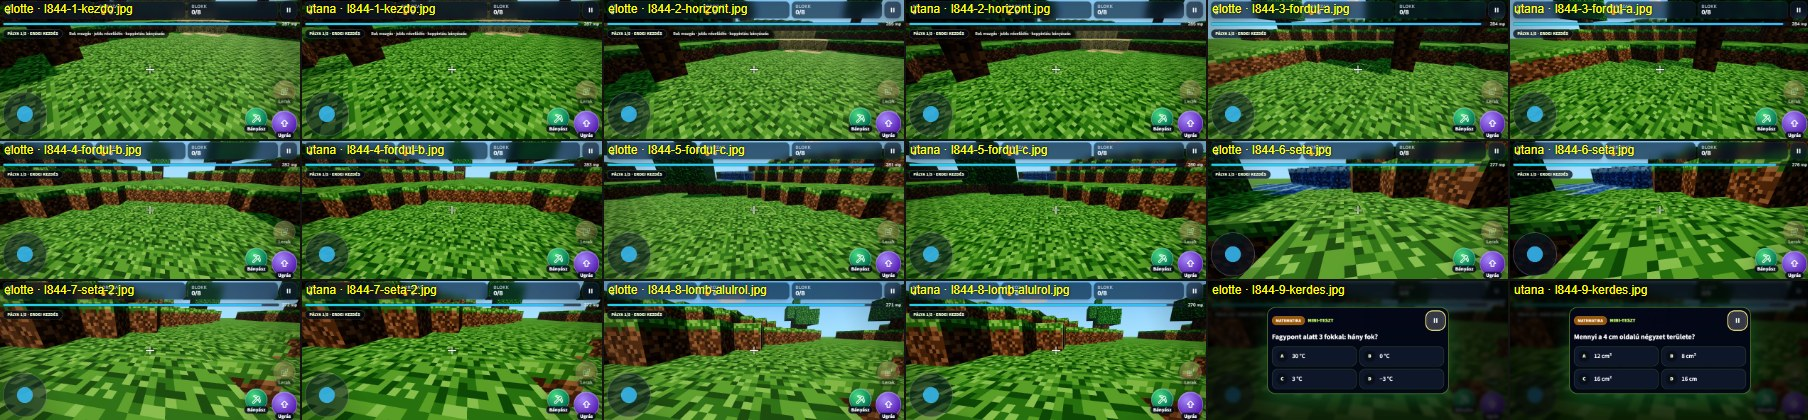
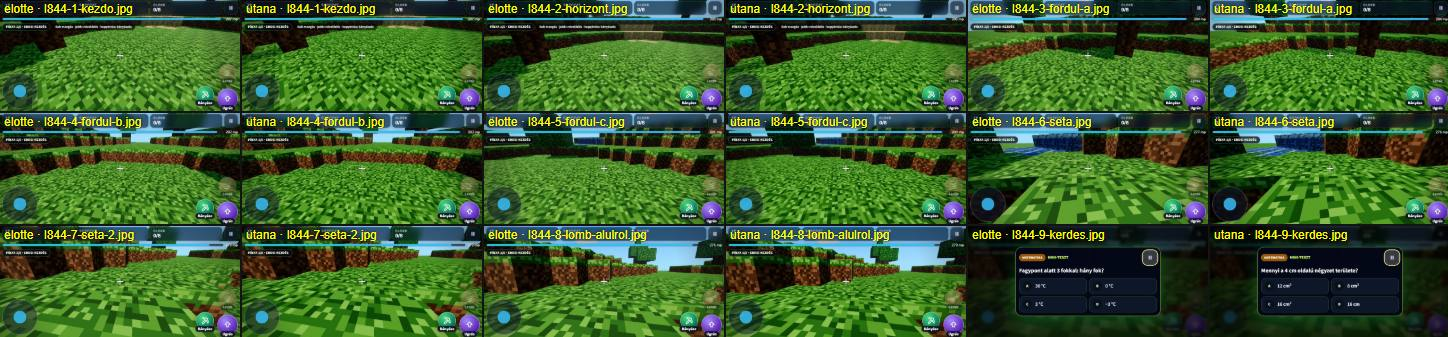
fix(jatekok): Kockavadász review F1–F7 – képpont-plafon csak érintős telefonon, CI-biztos panel-teszt, átló-doksi, akna-kép, karcsúbb képek

diff --git a/source/tests/pixel-budget.test.ts b/source/tests/pixel-budget.test.ts
@@ -1,7 +1,7 @@
 import assert from "node:assert/strict";
 import { describe, it } from "node:test";
 
-import { LIGHT_GRAPHICS_MAX_PIXELS, isLightGraphicsFrom, pixelRatioForBudget } from "../client/src/game-engine/perf/pixelBudget";
+import { LIGHT_GRAPHICS_MAX_PIXELS, isLightGraphicsFrom, isTouchDeviceFrom, pixelRatioForBudget } from "../client/src/game-engine/perf/pixelBudget";
 
 /** Képpontszám-plafon és „könnyű grafika” (terv: docs/specs/2026-11-17-kockavadasz-telefon-gyors.md, 3/f, G-5, G-6). */
 
@@ -34,13 +34,32 @@ describe("pixelRatioForBudget", () => {
 
 describe("isLightGraphicsFrom", () => {
   it("erős telefon (medium szint, 8 GB) nem könnyű mód — a felbontása változatlan", () => {
-    assert.equal(isLightGraphicsFrom({ tier: "medium", reducedMotion: false, memoryGb: 8 }), false);
-    assert.equal(isLightGraphicsFrom({ tier: "high", reducedMotion: false, memoryGb: null }), false);
+    assert.equal(isLightGraphicsFrom({ touchDevice: true, tier: "medium", reducedMotion: false, memoryGb: 8 }), false);
+    assert.equal(isLightGraphicsFrom({ touchDevice: true, tier: "high", reducedMotion: false, memoryGb: null }), false);
   });
 
   it("a három jel bármelyike könnyű módot ad", () => {
-    assert.equal(isLightGraphicsFrom({ tier: "low", reducedMotion: false, memoryGb: 8 }), true);
-    assert.equal(isLightGraphicsFrom({ tier: "medium", reducedMotion: true, memoryGb: 8 }), true);
-    assert.equal(isLightGraphicsFrom({ tier: "medium", reducedMotion: false, memoryGb: 4 }), true);
+    assert.equal(isLightGraphicsFrom({ touchDevice: true, tier: "low", reducedMotion: false, memoryGb: 8 }), true);
+    assert.equal(isLightGraphicsFrom({ touchDevice: true, tier: "medium", reducedMotion: true, memoryGb: 8 }), true);
+    assert.equal(isLightGraphicsFrom({ touchDevice: true, tier: "medium", reducedMotion: false, memoryGb: 4 }), true);
+  });
+});
+
+describe("könnyű grafika csak érintős eszközön (review F2)", () => {
+  it("asztali low szint (≤ 4 mag) nem kap képpont-plafont — a felbontás nem csökken", () => {
+    assert.equal(isLightGraphicsFrom({ touchDevice: false, tier: "low", reducedMotion: false, memoryGb: 8 }), false);
+    assert.equal(isLightGraphicsFrom({ touchDevice: false, tier: "low", reducedMotion: true, memoryGb: 2 }), false);
+  });
+
+  it("érintős telefonon low szinten a plafon hat", () => {
+    assert.equal(isLightGraphicsFrom({ touchDevice: true, tier: "low", reducedMotion: false, memoryGb: 8 }), true);
+  });
+
+  it("az érintős-eszköz jel: durva mutató és ≤ 1024 px rövidebb oldal", () => {
+    assert.equal(isTouchDeviceFrom(true, 412), true);
+    assert.equal(isTouchDeviceFrom(true, 1024), true);
+    assert.equal(isTouchDeviceFrom(true, 1080), false, "érintős nagy monitor");
+    assert.equal(isTouchDeviceFrom(false, 412), false, "egér, kis ablak");
+    assert.equal(isTouchDeviceFrom(true, 0), false);
   });
 });

diff --git a/source/tests/blockcraft-perf-panel.spec.ts b/source/tests/blockcraft-perf-panel.spec.ts
@@ -12,6 +12,7 @@ test.use({ serviceWorkers: "block", ...devices["Pixel 7"], viewport: { width: 82
 type Toggles = { shadows: boolean; resolution: number; simpleMaterials: boolean; fog: boolean };
 type Snapshot = {
   running: boolean;
+  renderedFrames: number;
   tier: string;
   frame: { frames: number } | null;
   calls: number;
@@ -24,8 +25,13 @@ type Snapshot = {
 type PerfWindow = { __websuliPerf?: { snapshot: () => Snapshot } };
 
 test.beforeEach(async ({ page }) => {
+  // CI-reprodukció (mint a `blockcraft-play`-ben): `BC_CPU_THROTTLE=<n>` → n-szeres CPU-lassítás. Alapból nincs.
+  const throttle = Number(process.env.BC_CPU_THROTTLE ?? 0);
+  if (throttle > 1) await (await page.context().newCDPSession(page)).send("Emulation.setCPUThrottlingRate", { rate: throttle });
   await page.addInitScript(() => {
     localStorage.setItem("websuli.classroomGrade", "5");
+    // Review F6: a „könnyű grafika” a memóriától is függ (≤ 4 GB) — a futtató gépe ne döntsön; 8 GB-os telefon rögzítve.
+    Object.defineProperty(navigator, "deviceMemory", { configurable: true, get: () => 8 });
   });
   await page.route("**/api/**", async (route) => {
     const p = new URL(route.request().url()).pathname;
@@ -45,9 +51,13 @@ async function startGame(page: Page, query: string): Promise<void> {
 
 const snapshot = (page: Page) => page.evaluate(() => (window as unknown as PerfWindow).__websuliPerf!.snapshot());
 
-/** A kapcsoló után a mintaablak ürül: ha újra van benne képkocka, a jelenet az új beállítással is rajzol. */
+/**
+ * A kapcsoló után a jelenet az új beállítással legalább 3 képkockát kirajzol (review F1: a `renderedFrames` a statisztikából
+ * kihagyott, 1 s-nál lassabb CI-képkockákat is számolja, így a szoftveres WebGL-en sem a mintaablak üressége dönt).
+ */
 async function expectFramesAfterToggle(page: Page): Promise<void> {
-  await expect.poll(async () => (await snapshot(page)).frame?.frames ?? 0, { timeout: 30_000 }).toBeGreaterThan(2);
+  const before = (await snapshot(page)).renderedFrames;
+  await expect.poll(async () => (await snapshot(page)).renderedFrames - before, { timeout: 30_000 }).toBeGreaterThan(2);
 }
 
 test("perf=1: a panel megjelenik a mért sorokkal, és a négy kapcsoló hat a jelenetre", async ({ page }) => {

diff --git a/source/client/src/pages/BlockCraftQuiz.tsx b/source/client/src/pages/BlockCraftQuiz.tsx
@@ -7,7 +7,7 @@ import * as THREE from "three";
 import { applyRendererLook, createGradientSky, detectLookTier, disposeObjectTree, LOOK_BUDGET, SparkleField } from "@/game-engine/three-look";
 import type { PerfControls, PerfOverlay } from "@/game-engine/perf/perfOverlay";
 import { perfEnabledFrom } from "@/game-engine/perf/perfStats";
-import { isLightGraphicsFrom, LIGHT_GRAPHICS_MAX_PIXELS, pixelRatioForBudget } from "@/game-engine/perf/pixelBudget";
+import { isLightGraphicsFrom, isTouchDeviceFrom, LIGHT_GRAPHICS_MAX_PIXELS, pixelRatioForBudget } from "@/game-engine/perf/pixelBudget";
 import { SUN_SHADE_TINT, sunShadeAt, type SunOccluder } from "@/lib/voxelSunShade";
 import { useReducedMotion } from "@/game-engine/useReducedMotion";
 import { ArrowLeft, Pickaxe, Flame, ArrowBigUp, Pause, Blocks } from "lucide-react";
@@ -1947,7 +1947,8 @@ export default function BlockCraftQuiz() {
     const basePixelRatio = renderer.getPixelRatio();
     let perfScale = 1;
     const deviceMemory = (navigator as Navigator & { deviceMemory?: number }).deviceMemory;
-    const lightGraphics = lite && isLightGraphicsFrom({ tier, reducedMotion: reducedMotionRef.current, memoryGb: typeof deviceMemory === "number" ? deviceMemory : null });
+    const touchDevice = isTouchDeviceFrom(typeof window.matchMedia === "function" && window.matchMedia("(pointer: coarse)").matches, Math.min(window.screen?.width ?? 0, window.screen?.height ?? 0));
+    const lightGraphics = lite && isLightGraphicsFrom({ tier, touchDevice, reducedMotion: reducedMotionRef.current, memoryGb: typeof deviceMemory === "number" ? deviceMemory : null });
     const syncSize = () => {
       const { width, height } = desiredCanvasCssSize(canvas);
       if (width === appliedW && height === appliedH) return;

diff --git a/source/client/src/game-engine/perf/perfOverlay.ts b/source/client/src/game-engine/perf/perfOverlay.ts
@@ -39,6 +39,8 @@ export type PerfOverlayOptions = {
 
 export type PerfSnapshot = {
   running: boolean;
+  /** Az eddig kirajzolt képkockák száma (az 1 s-nál hosszabb, a statisztikából kihagyott képkockák is). */
+  renderedFrames: number;
   tier: string;
   frame: FrameSummary | null;
   /** `EXT_disjoint_timer_query_webgl2` átlag (ms); null, ha a böngésző nem adja. */
@@ -167,6 +169,7 @@ export function createPerfOverlay(opts: PerfOverlayOptions): PerfOverlay {
   let tStart = 0;
   let tBefore = 0;
   let lastRefresh = 0;
+  let renderedFrames = 0;
   let lastJs = 0;
   let lastRender = 0;
   let calls = 0;
@@ -237,6 +240,7 @@ export function createPerfOverlay(opts: PerfOverlayOptions): PerfOverlay {
     const gpuAvg = gpuSamples.length ? gpuSamples.reduce((a, b) => a + b, 0) / gpuSamples.length : null;
     return {
       running: lastFrameAt > 0 && nowMs - lastFrameAt < 1000,
+      renderedFrames,
       tier: opts.tier,
       frame: frames.summary(),
       gpuMs: gpuAvg,
@@ -391,6 +395,7 @@ export function createPerfOverlay(opts: PerfOverlayOptions): PerfOverlay {
     afterRender() {
       const tAfter = performance.now();
       lastRender = tAfter - tBefore;
+      renderedFrames += 1;
       if (active && timerExt && gl2) {
         gl2.endQuery(timerExt.TIME_ELAPSED_EXT);
         pending.push(active);

diff --git a/source/client/src/game-engine/perf/pixelBudget.ts b/source/client/src/game-engine/perf/pixelBudget.ts
@@ -10,6 +10,8 @@ export const LIGHT_GRAPHICS_MAX_PIXELS = 1_000_000;
 
 export type LightGraphicsEnv = {
   tier: string;
+  /** Érintős, telefon-méretű eszköz (`pointer: coarse` és a rövidebb képernyőoldal ≤ 1024 CSS px). Asztali gépen hamis. */
+  touchDevice: boolean;
   reducedMotion: boolean;
   /** `navigator.deviceMemory` GB-ban; null, ha a böngésző nem adja. */
   memoryGb: number | null;
@@ -17,7 +19,15 @@ export type LightGraphicsEnv = {
 
 /** Az ESZKÖZ képessége dönt, egyszer, betöltéskor — nem az ablak mérete és nem a mutató fajtája. */
 export function isLightGraphicsFrom(env: LightGraphicsEnv): boolean {
+  // Review F2: a „low” szint egy ≤ 4 magos asztali gépet is jelent — ott a nagy monitoron a plafon látható felbontásvesztés
+  // lenne. A plafon ezért csak érintős, telefon-méretű eszközön hat.
+  if (!env.touchDevice) return false;
   return env.tier === "low" || env.reducedMotion || (env.memoryGb !== null && env.memoryGb <= 4);
+}
+
+/** A Kockavadász oldali érintős-eszköz jel (a közös `tier.ts` változatlan). */
+export function isTouchDeviceFrom(coarsePointer: boolean, screenShortSide: number): boolean {
+  return coarsePointer && screenShortSide > 0 && screenShortSide <= 1024;
 }
 
 /**

diff --git a/docs/specs/2026-11-17-kockavadasz-telefon-gyors-vegrehajtas.md b/docs/specs/2026-11-17-kockavadasz-telefon-gyors-vegrehajtas.md
@@ -21,8 +21,9 @@ Minden parancs a munkafa gyökeréből. Push / PR csak orkesztrátori jelre; a P
    Teszt: `source/tests/pixel-budget.test.ts` (belefér → base; 827×835 @1,5 → ≤ 1,0 Mpx és arányos; `null` → base; 0 méret → base;
    a három „könnyű” jel külön-külön; erős telefon → hamis).
 2. `source/client/src/lib/voxelSunShade.ts`:
-   - `sunShadeAt(solidAt, leafAt, x, y, z, maxY): 0 | 1 | 2` — a (x, y+k, z−k) és a (x, y+k, z−k+1) cellákon lépked k = 1 … (maxY − y):
-     tömör (nem lomb) találat → 2 (árnyék); csak lomb találat → 1 (lombszűrte); semmi → 0. A `solidAt(x, y, z)` a rácson kívül hamis.
+   - `sunShadeAt(occluderAt, x, y, z, maxY): 0 | 1 | 2` — EGYETLEN átlón lépked: a (x, y+k, z−k) cellákon, k = 1 … amíg y+k < maxY
+     (review F3: a kód így működik, a korábbi „két átló” leírás hibás volt). `occluderAt` 2 = tömör blokk → 2 (árnyék, azonnal);
+     1 = lomb → legalább 1 (lombszűrte); semmi → 0. Az `occluderAt` a rácson kívül 0.
    - `SUN_SHADE_TINT: readonly [r, g, b][]` = `[[1, 1, 1], [0.58, 0.62, 0.72], [0.46, 0.5, 0.62]]`.
    Teszt: `source/tests/voxel-sun-shade.test.ts` (szabad ég → 0; közvetlenül a nap felőli átlóban tömör → 2; csak lomb → 1; lomb
    mögött tömör → 2; a rács széle → 0; a naptól elfelé eső blokk nem árnyékol).
@@ -97,8 +98,8 @@ szelet ott ütközni fog. A feloldásnál a #484 kódját kell megtartani, és e
 1. **Árnyék ki telefonon:** `createGameRenderer(canvas, tier, { exposure: 1.0, shadows: tier === "high" })`.
 2. **Sütött árnyék:** az `addCell(idx, t, x, y, z)`-ben a `setMatrixAt` mellé `setColorAt(slot, SUN_SHADE_TINT[sunShadeAt(…)])`
    (ha `!shadowsOn` és `t !== WATER`), `instanceColor.needsUpdate = true`; a `removeCell` cserés törlésénél a színt is át kell
-   másolni (`getColorAt(last)` → `setColorAt(slot)`); az `updateDirtyCells`-ben a megváltozott cella ALATTI átló (x, y−k, z+k és
-   z+k−1, k = 1 … y) celláinak színét újra kell számolni (bányászás után az árnyék eltűnik) — a mainen ezt a teljes `rebuildWorld` adja.
+   másolni (`getColorAt(last)` → `setColorAt(slot)`); az `updateDirtyCells`-ben a megváltozott (x, y, z) cella ALATTI egyetlen átló — a
+   (x, y−k, z+k) cellák, k = 1 … y — színét újra kell számolni (ugyanaz az átló visszafelé, mint a `sunShadeAt` bejárása) (bányászás után az árnyék eltűnik) — a mainen ezt a teljes `rebuildWorld` adja.
 3. **Anyagok:** `makeBlockMaterials(lite)` (Lambert / Phong / átlátszatlan lomb), a #484 új `RUNE_ORE` anyagával együtt
    (`emissiveMap` Lamberten is működik); **anizotrópia** `Math.min(lite ? 2 : 8, …)`.
 4. **`ResizeObserver` + `sizeDirty`** a `syncSize()` képkockánkénti hívása helyett; a könnyű grafika képpont-plafonja a `syncSize`-ban.
@@ -143,15 +144,17 @@ lehet (UNVERIFIED) — a tulajdonos `?perf=1` fotója dönt. NOT RUN: valódi te
 
 Képek: `docs/measurements/2026-11-17-kockavadasz-telefon-gyors/` — `lap-fold.jpg`, `lap-p390.jpg`, `lap-p360.jpg`, `lap-l844.jpg`
 (összevető lapok: kezdő nézet, horizont, három fordulat — erdő, domboldal, víz —, két séta utáni nézet, lomb alulról, kérdés
-nyitva), `par-viz-arnyek.jpg` (nagyított pár), `elotte/` és `utana/` (a kihajtott és a 390×844 nézet egyenkénti képei). Mag: 21,
+nyitva), `par-viz-arnyek.jpg` (nagyított pár), `lap-akna.jpg` (5 blokk mély, lefelé ásott akna alja: oldalra és felfelé nézve).
+Az egyenkénti képek a review F7 szerint nincsenek a repóban (a scratchpadban maradtak). Mag: 21,
 `look=medium`.
 
 Megállapítások: a színek, a textúra élessége, a köd és a HUD a párokban megegyezik; hiányzó blokk, csíkozódás, levágott HUD nincs.
-Látható különbségek: (1) a fák talajra vetett árnyéka megvan, de kockánkénti (szögletes folt a törzs mellett), kisebb és
+Látható különbségek: (1) a fák talajra vetett árnyéka helyett csak alig észrevehető, kockánkénti folt marad a törzs mellett (a hosszú, lágy árnyék eltűnik), kisebb és
 keményebb szélű, mint az árnyéktérkép lágy, hosszú árnyéka; (2) a víz csillanása a part mentén halványabb; (3) a lomb teljesen
 fedő (a 7 %-os áttetszőség eltűnt) — képen nem észrevehető. A kép nem lapos: a domboldalak árnyékos oldala, a lomb alja és a fák
-alja sötétebb. Barlang / fedett rész a kezdő pályán a magból nem érhető el a szkripttel — NOT RUN (a legközelebbi megfelelő a lomb
-alatti és a domb mögötti rész). Időjárásos pályák (eső, hó, homokvihar): NOT RUN.
+alja sötétebb. Zárt tér (review F4): lefelé ásott, 5 blokk mély akna alján mindkét változat — az „utána” kép falai nem sötétebbek, inkább
+világosabbak (a régi árnyéktérkép az akna falát is árnyékolta), ezért a szórt fényt nem kellett külön kezelni. Természetes barlang
+a kezdő pályán nincs: NOT RUN. Időjárásos pályák (eső, hó, homokvihar): NOT RUN.
 
 ### Tesztek
 

diff --git a/docs/specs/2026-11-17-kockavadasz-telefon-gyors.md b/docs/specs/2026-11-17-kockavadasz-telefon-gyors.md
@@ -27,12 +27,12 @@ ellenőrizhesse az eredményt.
 
 | # | Változás | Low / medium (telefon) | High |
 |---|---|---|---|
-| a | **Árnyéktérkép ki, helyette sütött blokk-árnyék:** `applyRendererLook(…, { shadows: tier === "high" })`; a világ építésekor minden látható kocka kap egy példányszínt (`InstancedMesh.setColorAt`): a nap irányában (≈ 45°, a −z felé) a rácson lépkedve ha tömör blokk takarja → sötétebb, hűvösebb árnyalat; ha csak lomb takarja → enyhébb („lombszűrte”) árnyék. A fák, dombok, barlangszájak árnyéka így megmarad, képpontonkénti mintavétel nélkül. A víz nem kap árnyalatot. | sütött árnyék | árnyéktérkép, változatlan |
+| a | **Árnyéktérkép ki, helyette sütött blokk-árnyék:** `applyRendererLook(…, { shadows: tier === "high" })`; a világ építésekor minden látható kocka kap egy példányszínt (`InstancedMesh.setColorAt`): a nap irányában (≈ 45°, a −z felé) a rácson lépkedve ha tömör blokk takarja → sötétebb, hűvösebb árnyalat; ha csak lomb takarja → enyhébb („lombszűrte”) árnyék. Képpontonkénti mintavétel nélkül a domboldalak és a lomb alja sötétebb marad; a fák talajra vetett árnyékából csak alig észrevehető, kockánkénti folt marad (review F3). A víz nem kap árnyalatot. | sütött árnyék | árnyéktérkép, változatlan |
 | b | **Olcsó anyag:** a blokkok `MeshLambertMaterial` (ugyanaz a textúra, ugyanaz az önvilágítás és az „AO” árnyalás az `onBeforeCompile`-ban); a víz `MeshPhongMaterial` (megmarad a csillanás) | Lambert / Phong | `MeshStandardMaterial`, változatlan |
 | c | **Anizotrópia** | medium: 8× → 2×; low: 1× (eddig is) | 8×, változatlan |
 | d | **Lomb keverés nélkül:** a lomb textúrája teljesen fedő (nincs átlátszó képpontja — `mcBlockPatternBuild`), ezért a 93 %-os áttetszőség elhagyásával átlátszatlan anyag lesz, `alphaTest` (`discard`) nélkül | átlátszatlan | `transparent`, változatlan |
 | e | **`ResizeObserver`** a képkockánkénti `clientWidth / clientHeight` olvasás helyett (minden szinten; a kimenet azonos): a méret csak a megfigyelő / `resize` jelzésére számolódik újra | igen | igen |
-| f | **Képpontszám-plafon csak „könnyű grafika” módban:** a Szökőár mintájára (`TsunamiEscapeEnglish.tsx` `isLowEnd`) az ESZKÖZ jelei döntenek, egyszer, betöltéskor: low szint, csökkentett mozgás kérése vagy ≤ 4 GB memória → a 3D vászon legfeljebb 1,0 Mpx (arányos lekicsinyítés; a HUD natív DOM). Minden más eszközön (a tulajdonos telefonján is) a felbontás a mostani dpr-korlát szerinti. A panelen a felbontás kézzel is állítható. | csak könnyű módban | nincs |
+| f | **Képpontszám-plafon csak „könnyű grafika” módban, csak érintős telefonon (review F2: asztali low szinten soha):** a Szökőár mintájára (`TsunamiEscapeEnglish.tsx` `isLowEnd`) az ESZKÖZ jelei döntenek, egyszer, betöltéskor: low szint, csökkentett mozgás kérése vagy ≤ 4 GB memória → a 3D vászon legfeljebb 1,0 Mpx (arányos lekicsinyítés; a HUD natív DOM). Minden más eszközön (a tulajdonos telefonján is) a felbontás a mostani dpr-korlát szerinti. A panelen a felbontás kézzel is állítható. | csak könnyű módban | nincs |
 | g | **`?perf=1` panel** (`game-engine/perf/*`, a #484-alapú ágról változatlan modulok) bekötve a main lapjára; kapcsolók: Árnyék (csak ahol van árnyéktérkép; telefonon „nincs”), Felbontás 100 / 75 / 50 %, Anyag (az alap és az egyszerűbb készlet között), Köd | igen | igen |
 
 Tiszta, egységtesztelt segédek új modulban: `game-engine/perf/pixelBudget.ts` (`pixelRatioForBudget`, `isLightGraphicsFrom`) és
